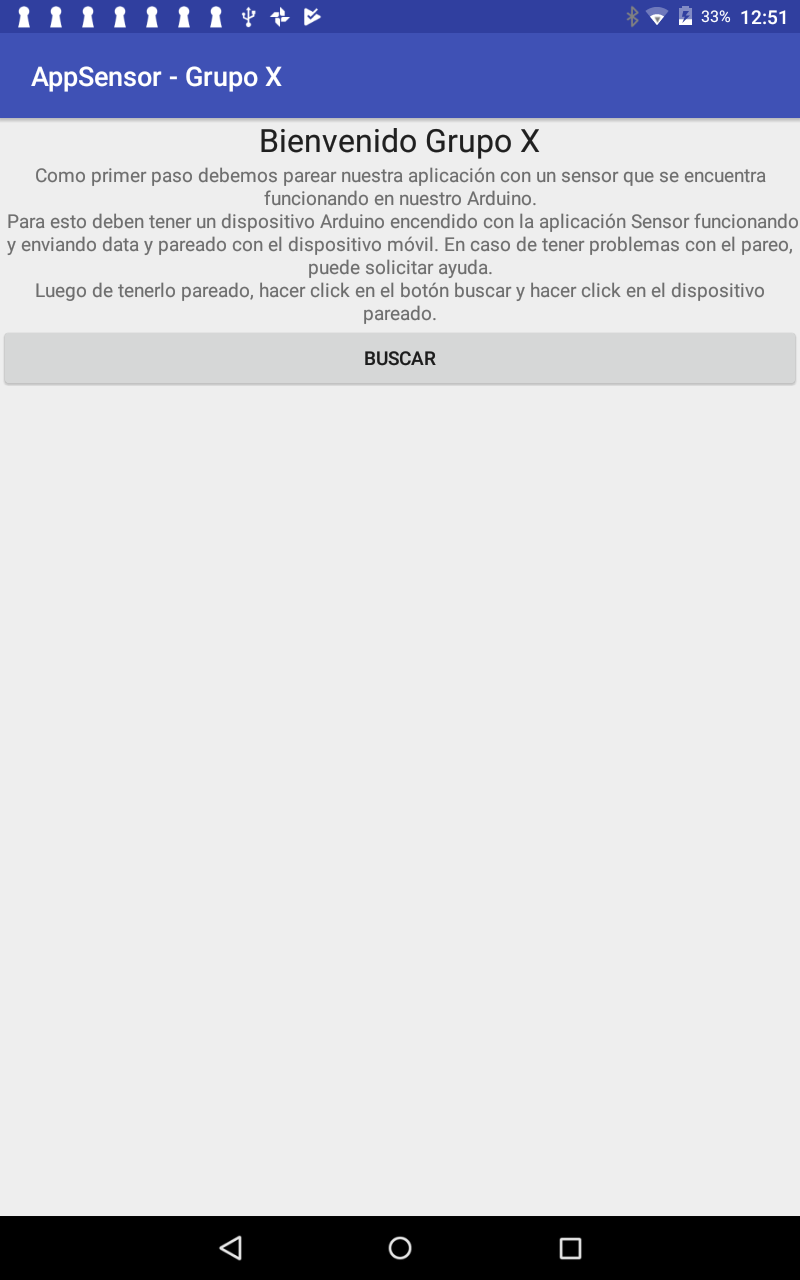
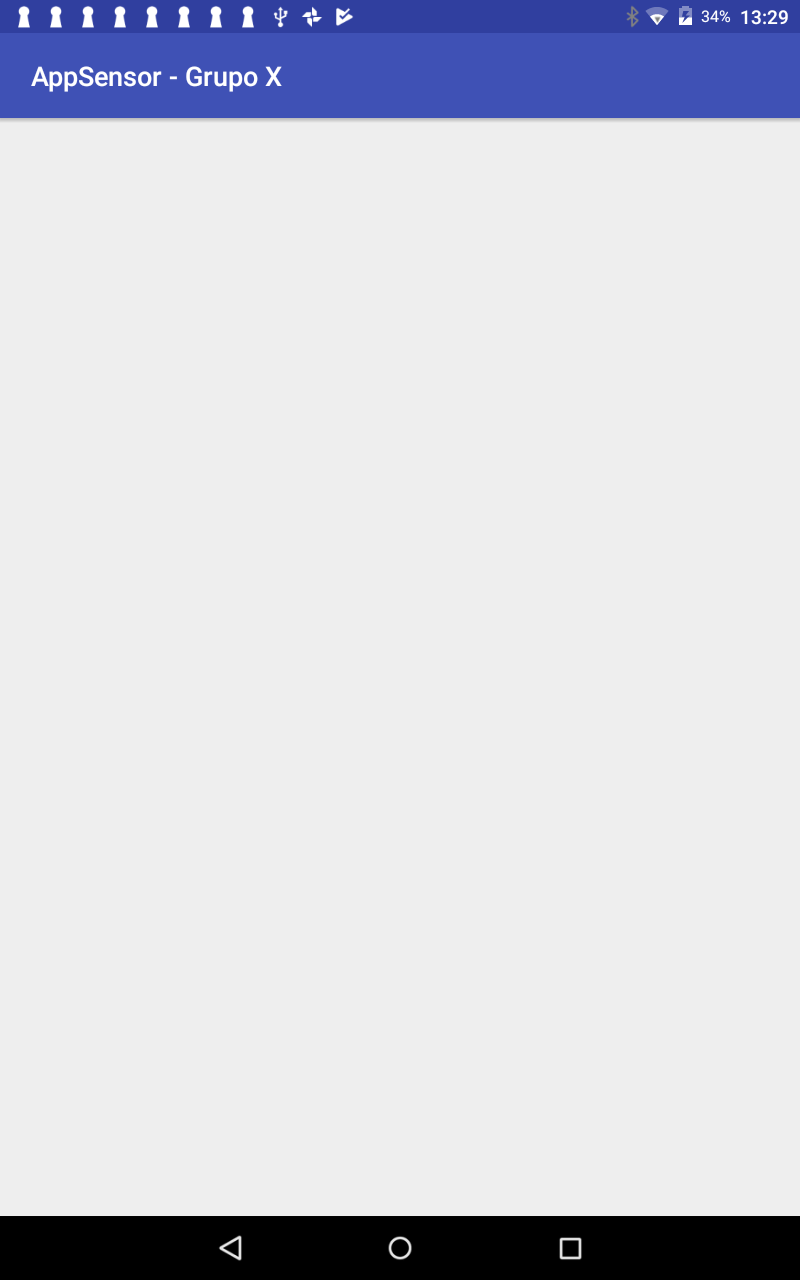
Adding images and removing code to complete in workshop

diff --git a/app/src/main/java/ulima/edu/pe/appsensor/DeviceListActivity.java b/app/src/main/java/ulima/edu/pe/appsensor/DeviceListActivity.java
@@ -35,9 +35,9 @@ public class DeviceListActivity extends AppCompatActivity implements View.OnClic
     protected void onCreate(@Nullable Bundle savedInstanceState) {
         super.onCreate(savedInstanceState);
 
-        configurarElementosPantalla();
+        // Acá se deben configurar los elementos de la pantalla
+        // así como ver que el handset tenga activo el Bluetooth.
 
-        verificarHandsetTengaBluetooth();
 
     }
 
@@ -45,7 +45,7 @@ public class DeviceListActivity extends AppCompatActivity implements View.OnClic
     public void onClick(View view) {
         // Cada vez que se haga click, se deberá de mostrar los dispositivos que se
         // encuentran pareados con el celular.
-        mostrarDispositivosPareados();
+
     }
 
     @Override
@@ -53,7 +53,7 @@ public class DeviceListActivity extends AppCompatActivity implements View.OnClic
         // Al seleccionar un dispositivo Bluetooth con el cual conectarnos,
         // debemos ir a la pantalla donde vamos a obtener los datos y mostrarlos
         // en gráficos para ver la vibración.
-        irAPantallaGraficosDelSensor(adapterView, i);
+
 
     }
 

diff --git a/app/src/main/java/ulima/edu/pe/appsensor/GraphActivity.java b/app/src/main/java/ulima/edu/pe/appsensor/GraphActivity.java
@@ -24,6 +24,10 @@ import ulima.edu.pe.appsensor.model.XYZData;
 import ulima.edu.pe.appsensor.utils.SensorUtils;
 
 public class GraphActivity extends AppCompatActivity {
+    // En esta pantalla debemos hacer 3 cosas:
+    // 1. Configurar los elementos de la pantalla.
+    // 2. Iniciar la recepción del handset de la trama que envía el arduino mediante Bluetooth
+    // 3. Procesar la trama y mostrarla en los gráficos.
 
     private ProgressDialog pd;
     BluetoothAdapter mBluetoothAdapter = null;
@@ -41,16 +45,18 @@ public class GraphActivity extends AppCompatActivity {
     protected void onCreate(Bundle savedInstanceState) {
         super.onCreate(savedInstanceState);
 
-        configurarElementosPantalla();
 
-        iniciarRecepcionDeBluetooth();
+
+
     }
 
     private void iniciarRecepcionDeBluetooth() {
         new BTConnection(new OnDeviceDataListener() {
             @Override
             public void onDataObtained(byte[] trama) {
-                procesarDataObtenida(trama);
+
+
+
             }
         }).execute();
     }
